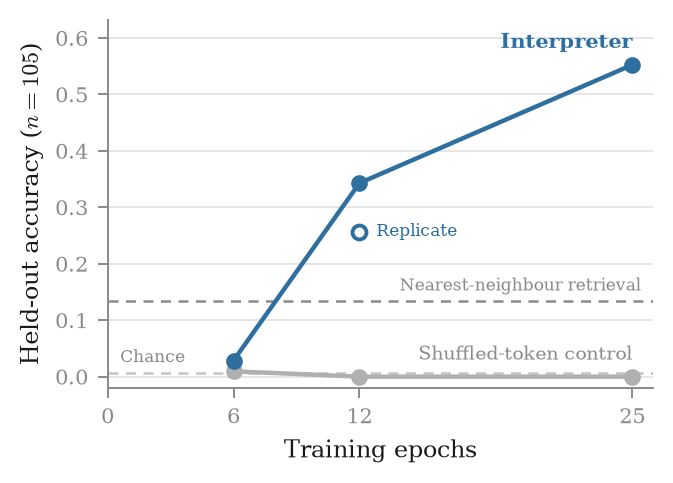
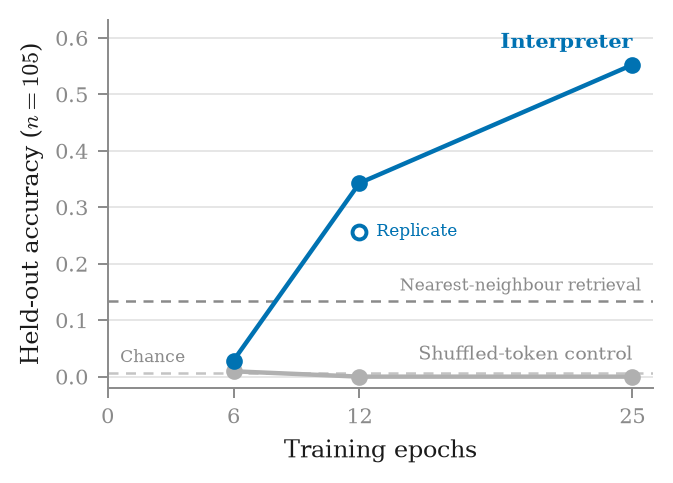
okabe-ito figure colors

diff --git a/scripts/fig_encoder_inversion.py b/scripts/fig_encoder_inversion.py
@@ -17,7 +17,8 @@ import matplotlib.pyplot as plt
 plt.style.use(str(pathlib.Path(__file__).parent.parent / "paper" / "figstyle.mplstyle"))
 
 # Colour follows the entity across both panels (and matches make_figures.py where shared).
-COLORS = {"subspace_proj": "#2a78d6", "u1_logreg": "#eb6834", "product_sketch": "#1baf7a"}
+# Okabe-Ito: colorblind-safe, validated (CVD dE>=11, contrast>=3:1 on white).
+COLORS = {"subspace_proj": "#0072B2", "u1_logreg": "#D55E00", "product_sketch": "#009E73"}
 LABELS = {"subspace_proj": "Subspace projectors",
           "u1_logreg": "Singular-direction feature ($u_1$)",
           "product_sketch": "Bilinear sketch of $\\Delta W$"}

diff --git a/scripts/fig_epoch_threshold.py b/scripts/fig_epoch_threshold.py
@@ -20,7 +20,7 @@ plt.style.use(str(pathlib.Path(__file__).parent.parent / "paper" / "figstyle.mpl
 # lines are lighter still. Text stays in ink colours so identity is never colour-alone: every series
 # is also directly labelled.
 INK, MUTED, FAINT = "#1a1a1a", "#8a8a8a", "#c4c4c4"
-REAL, CTRL = "#2f6f9f", "#b0b0b0"
+REAL, CTRL = "#0072B2", "#b0b0b0"   # Okabe-Ito blue, matching Figure 2
 
 
 def load(d: pathlib.Path):
